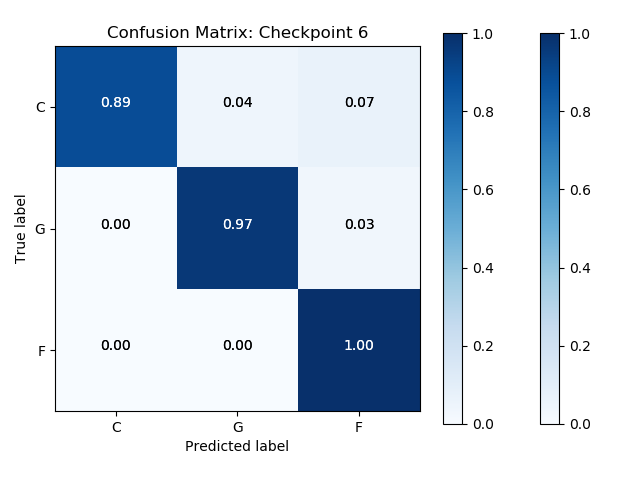
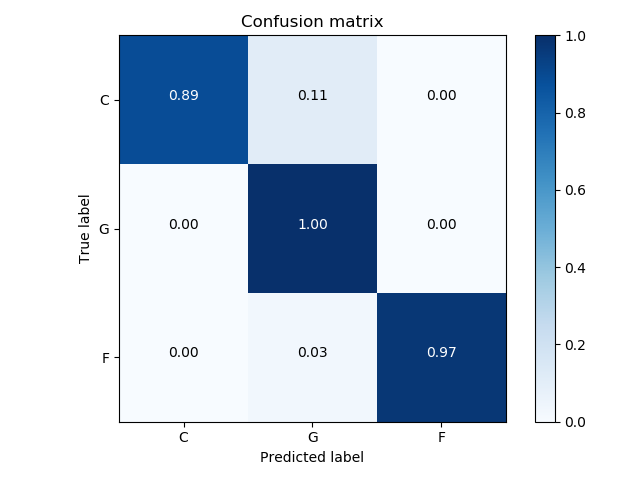
video capture file

diff --git a/src/transfer_learning_5_chords.py b/src/transfer_learning_5_chords.py
@@ -9,9 +9,10 @@ from tensorflow.keras.optimizers import SGD, Adam
 from tensorflow.keras.models import load_model
 import os
 import os.path
-from sklearn.metrics import recall_score, precision_score, roc_auc_score
+from sklearn.metrics import recall_score, precision_score, roc_auc_score, confusion_matrix
 import numpy as np
 import pandas as pd
+import matplotlib.pyplot as plt
 
 root_dir = os.path.join(os.curdir, 'CovNet_logs')  
 
@@ -51,18 +52,55 @@ def get_tboard_logdir():
 def score_model(model, test_generator, num_test):
         results_dict = model.evaluate(test_generator, steps = num_test//32, return_dict = True)
         ytrue = test_generator.classes
-        probas = best_model.predict(test_generator)
+        probas = model.predict(test_generator)
         yhat = np.argmax(probas, axis = 1)
         results_dict['recall'] = recall_score(ytrue, yhat, average = 'macro')
         results_dict['precision'] = precision_score(ytrue, yhat, average = 'macro')
         return results_dict 
         
 
+def get_confusion_matrix(model, test_generator):
+        return confusion_matrix(test_generator.classes, np.argmax(model.predict(test_generator), axis = 1))
+
+def plot_confusion_matrix(cm, classes,
+                          normalize=False,
+                          title='Confusion matrix',
+                          cmap=plt.cm.Blues):
+
+
+        import itertools
+        if normalize:
+                cm = cm.astype('float') / cm.sum(axis=1)[:, np.newaxis]
+                print("Normalized confusion matrix")
+        else:
+                print('Confusion matrix, without normalization')
+
+        print(cm)
+
+        plt.imshow(cm, interpolation='nearest', cmap=cmap)
+        plt.title(title)
+        plt.colorbar()
+        tick_marks = np.arange(len(classes))
+        plt.xticks(tick_marks, classes)
+        plt.yticks(tick_marks, classes)
+
+        fmt = '.2f' if normalize else 'd'
+        thresh = cm.max() / 2.
+        for i, j in itertools.product(range(cm.shape[0]), range(cm.shape[1])):
+                plt.text(j, i, format(cm[i, j], fmt),
+                        horizontalalignment="center",
+                        color="white" if cm[i, j] > thresh else "black")
+
+        plt.ylabel('True label')
+        plt.xlabel('Predicted label')
+        plt.tight_layout()
+        plt.savefig('images/conf_matrix_5chords_chk3') 
+
 if __name__ == '__main__':
 
-        num_train = len([os.path.join(path, name) for path, subdirs, files in os.walk('data/train/') for name in files])+1
-        num_valid = len([os.path.join(path, name) for path, subdirs, files in os.walk('data/val') for name in files])+1
-        num_test = len([os.path.join(path, name) for path, subdirs, files in os.walk('data/test') for name in files])+1
+        num_train = len([os.path.join(path, name) for path, subdirs, files in os.walk('data_5chords/train/') for name in files])+1
+        num_valid = len([os.path.join(path, name) for path, subdirs, files in os.walk('data_5chords/val') for name in files])+1
+        num_test = len([os.path.join(path, name) for path, subdirs, files in os.walk('data_5chords/test') for name in files])+1
 
         #Vars
         batch_size = 32
@@ -72,19 +110,19 @@ if __name__ == '__main__':
 
         # make flow objects
         train_generator = train_datagen.flow_from_directory(
-                'data/train/',
+                'data_5chords/train/',
                 target_size=target_size,
                 batch_size=batch_size,
                 class_mode='categorical')
 
         validation_generator = valid_datagen.flow_from_directory(
-                'data/val',
+                'data_5chords/val',
                 target_size=target_size,
                 batch_size=batch_size,
                 class_mode='categorical')
 
         test_generator = test_datagen.flow_from_directory(
-                'data/test',
+                'data_5chords/test',
                 target_size=target_size,
                 batch_size=batch_size,
                 class_mode='categorical', 
@@ -93,12 +131,12 @@ if __name__ == '__main__':
         # instantiate callbacks
         run_tboard_dir = get_tboard_logdir()
         tensorboard = TensorBoard(log_dir=run_tboard_dir, histogram_freq=2, batch_size=batch_size, write_graph=True, write_grads=True, write_images=True)
-        early_stopping = EarlyStopping(monitor='val_loss', patience=5, restore_best_weights=True)
+        early_stopping = EarlyStopping(monitor='val_loss', patience=3, restore_best_weights=True)
         
         
         #Create transfer model based on weights from 3 classes (checkpoint6)
-        ''' 
-        weights = load_model('./CovNet_logs/Checkpoint6.hdf5').get_weights()[:-2]
+        '''
+        weights = load_model('./CovNet_logs/Checkpoint7.hdf5').get_weights()[:-2]
         base_model = Xception(weights= 'imagenet',
                         include_top=False,
                         input_shape=(299,299,3))
@@ -106,14 +144,14 @@ if __name__ == '__main__':
         base_model.set_weights(weights)
         
         transfer_model = create_transfer_model(base_model, n_categories=5)
-
+        
         #First round, just change weights for the output layer
         _ = change_trainable_layers(transfer_model, 132)
         print_model_properties(transfer_model)
 
         #Compile and fit first model - just outer layer tuning
         optimizer = SGD(lr=0.2, momentum = 0.9, decay = 0.01)
-        model_cp = ModelCheckpoint(monitor='val_loss', save_best_only=True, filepath='./CovNet_logs/Checkpoint1B.hdf5')
+        model_cp = ModelCheckpoint(monitor='val_loss', save_best_only=True, filepath='./CovNet_logs/Checkpoint5c-1.hdf5')
         transfer_model.compile(optimizer=optimizer, loss=['categorical_crossentropy'], metrics=['accuracy', 'AUC'])
 
         history = transfer_model.fit(x=train_generator, 
@@ -126,15 +164,15 @@ if __name__ == '__main__':
         
 
         
-        transfer_model_2 = load_model('./CovNet_logs/Checkpoint1B.hdf5')
+        transfer_model_2 = load_model('./CovNet_logs/Checkpoint5c-2.hdf5')
 
-        _ = change_trainable_layers(transfer_model_2, 126) 
+        _ = change_trainable_layers(transfer_model_2, 106) 
 
         print_model_properties(transfer_model_2)
 
-        optimizer = SGD(lr=0.01, momentum = 0.9, decay = 0.001)
+        optimizer = Adam(lr=0.001, beta_1 = 0.9, beta_2 = 0.999)
         transfer_model_2.compile(optimizer=optimizer, loss=['categorical_crossentropy'], metrics=['accuracy', 'AUC'])
-        model_cp2 = ModelCheckpoint(monitor='val_loss', save_best_only=True, filepath='./CovNet_logs/Checkpoint2B.hdf5')
+        model_cp2 = ModelCheckpoint(monitor='val_loss', save_best_only=True, filepath='./CovNet_logs/Checkpoint5c-2.hdf5')
 
         history = transfer_model_2.fit(x=train_generator, 
                         validation_data=validation_generator,
@@ -145,8 +183,8 @@ if __name__ == '__main__':
 
 
 
-        '''
         
+        '''
         transfer_model_3 = load_model('./CovNet_logs/Checkpoint8.hdf5')
 
         model_cp3 = ModelCheckpoint(monitor='val_loss', save_best_only=True, filepath='./CovNet_logs/Checkpoint9.hdf5')
@@ -209,8 +247,12 @@ if __name__ == '__main__':
 
         '''
 
-        best_model = load_model('./CovNet_logs/Checkpoint2B.hdf5')
+        best_model = load_model('./CovNet_logs/Checkpoint5c-3.hdf5')
 
         metrics = score_model(best_model, test_generator, num_test)
 
         print(metrics)
+
+
+        cm = get_confusion_matrix(best_model, test_generator)
+        plot_confusion_matrix(cm, ['C', 'G', 'F', 'Am', 'Dm'], normalize = True)

diff --git a/src/camera.py b/src/camera.py
@@ -1,5 +1,4 @@
 import cv2
-from predictions import ChordIdentifier
 import numpy as np
 from tensorflow.keras.models import load_model
 
@@ -16,21 +15,22 @@ classes = np.array(['C', 'F', 'G'])
 cap = cv2.VideoCapture('src/quickvid.mov')
 frameRate = cap.get(5) #frame rate
 
-cap.set(cv2.CAP_PROP_FPS, 5)
-fps = int(cap.get(5))
+# cap.set(cv2.CAP_PROP_FPS, 5)
+# fps = int(cap.get(5))
 # print("fps:", fps)
 
 while(cap.isOpened()):
     ret, frame = cap.read()
-    gray = cv2.cvtColor(frame, cv2.COLOR_RGB2RGBA)
-    gray = cv2.rotate(gray, cv2.cv2.ROTATE_90_CLOCKWISE)
-
-    roi = cv2.resize(gray, (299,299))/255
+    if not ret:
+        break
+    # gray = cv2.cvtColor(frame, cv2.COLOR_RGB2RGBA)
+    gray = cv2.rotate(frame, cv2.cv2.ROTATE_90_CLOCKWISE)
+    roi = cv2.resize(gray, (299, 299))/255
     # roi = cv2.rotate(roi, cv2.cv2.ROTATE_90_CLOCKWISE)
     # print(roi[1])
     # new_img = np.delete(roi, 3 , axis = 2).reshape(-1, 299, 299, 3)
 
-    pred = classes[np.argmax(model.predict(np.delete(roi, 3 , axis = 2).reshape(-1, 299, 299, 3)), axis = 1)][0]
+    pred = classes[np.argmax(model.predict(roi.reshape(-1, 299, 299, 3)), axis = 1)][0]
     # print(pred)
     # cv2.putText(frame, pred, (50,50) ,font, 1, (40, 40, 0), 2)
 
@@ -44,130 +44,9 @@ while(cap.isOpened()):
 
     if cv2.waitKey(1) & 0xFF == ord('q'):
         break
+    
 cap.release()
-cv2.destroyAllWindows()
+print('cap released')
+# cv2.destroyAllWindows('frame')
+# print('window destroyed')
 
-
-# def get_frame(video):
-#     vid = cv2.VideoCapture(video)
-#     _, fr = vd.read()
-
-#         _, jpeg = cv2.imencode('.jpg', fr)
-#         return jpeg.tobytes()
-
-
-
-'''
-    # returns camera frames along with bounding boxes and predictions
-    def get_frame(self):
-        _, fr = self.video.read()
-        #gray_fr = cv2.cvtColor(fr, cv2.COLOR_BGR2GRAY)
-        chord = chord_c.detectMultiScale(gray_fr, 1.3, 5)
-
-        for (x, y, w, h) in faces:
-            fc = gray_fr[y:y+h, x:x+w]#change gray_fr to color frame
-
-            roi = cv2.resize(fc, (48, 48))
-            pred = model.predict_emotion(roi[np.newaxis, :, :, np.newaxis])
-
-            cv2.putText(fr, pred, (x, y), font, 1, (255, 255, 0), 2)
-            cv2.rectangle(fr,(x,y),(x+w,y+h),(255,0,0),2)
-
-        _, jpeg = cv2.imencode('.jpg', fr)
-        return jpeg.tobytes()
-'''
-
-
-
-
-
-
-'''
-import cv2  # still used to save images out
-import os
-import numpy as np
-from decord import VideoReader
-from decord import cpu, gpu
-
-
-def extract_frames(video_path, frames_dir, overwrite=False, start=-1, end=-1, every=1):
-    """
-    Extract frames from a video using decord's VideoReader
-    :param video_path: path of the video
-    :param frames_dir: the directory to save the frames
-    :param overwrite: to overwrite frames that already exist?
-    :param start: start frame
-    :param end: end frame
-    :param every: frame spacing
-    :return: count of images saved
-    """
-
-    video_path = os.path.normpath(video_path)  # make the paths OS (Windows) compatible
-    frames_dir = os.path.normpath(frames_dir)  # make the paths OS (Windows) compatible
-
-    video_dir, video_filename = os.path.split(video_path)  # get the video path and filename from the path
-
-    assert os.path.exists(video_path)  # assert the video file exists
-
-    # load the VideoReader
-    vr = VideoReader(video_path, ctx=cpu(0))  # can set to cpu or gpu .. ctx=gpu(0)
-                     
-    if start < 0:  # if start isn't specified lets assume 0
-        start = 0
-    if end < 0:  # if end isn't specified assume the end of the video
-        end = len(vr)
-
-    frames_list = list(range(start, end, every))
-    saved_count = 0
-
-    if every > 25 and len(frames_list) < 1000:  # this is faster for every > 25 frames and can fit in memory
-        frames = vr.get_batch(frames_list).asnumpy()
-
-        for index, frame in zip(frames_list, frames):  # lets loop through the frames until the end
-            save_path = os.path.join(frames_dir, video_filename, "{:010d}.jpg".format(index))  # create the save path
-            if not os.path.exists(save_path) or overwrite:  # if it doesn't exist or we want to overwrite anyways
-                cv2.imwrite(save_path, cv2.cvtColor(frame, cv2.COLOR_RGB2BGR))  # save the extracted image
-                saved_count += 1  # increment our counter by one
-
-    else:  # this is faster for every <25 and consumes small memory
-        for index in range(start, end):  # lets loop through the frames until the end
-            frame = vr[index]  # read an image from the capture
-            
-            if index % every == 0:  # if this is a frame we want to write out based on the 'every' argument
-                save_path = os.path.join(frames_dir, video_filename, "{:010d}.jpg".format(index))  # create the save path
-                if not os.path.exists(save_path) or overwrite:  # if it doesn't exist or we want to overwrite anyways
-                    cv2.imwrite(save_path, cv2.cvtColor(frame.asnumpy(), cv2.COLOR_RGB2BGR))  # save the extracted image
-                    saved_count += 1  # increment our counter by one
-
-    return saved_count  # and return the count of the images we saved
-
-
-def video_to_frames(video_path, frames_dir, overwrite=False, every=1):
-    """
-    Extracts the frames from a video
-    :param video_path: path to the video
-    :param frames_dir: directory to save the frames
-    :param overwrite: overwrite frames if they exist?
-    :param every: extract every this many frames
-    :return: path to the directory where the frames were saved, or None if fails
-    """
-
-    video_path = os.path.normpath(video_path)  # make the paths OS (Windows) compatible
-    frames_dir = os.path.normpath(frames_dir)  # make the paths OS (Windows) compatible
-
-    video_dir, video_filename = os.path.split(video_path)  # get the video path and filename from the path
-
-    # make directory to save frames, its a sub dir in the frames_dir with the video name
-    os.makedirs(os.path.join(frames_dir, video_filename), exist_ok=True)
-    
-    print("Extracting frames from {}".format(video_filename))
-    
-    extract_frames(video_path, frames_dir, every=every)  # let's now extract the frames
-
-    return os.path.join(frames_dir, video_filename)  # when done return the directory containing the frames
-
-
-if __name__ == '__main__':
-    # test it
-    video_to_frames(video_path='test.mp4', frames_dir='test_frames', overwrite=False, every=5)
-'''

diff --git a/README.md b/README.md
@@ -4,10 +4,8 @@
 #### Goal: 
 The goal of this project is to create a piano chord classifier based on images.  
 
-Stretch project: if I am successful with goal above, I'd like to be able to identify chords in real time.  It would be interesting if each chord could trigger a different sound (such as the sound of the chord) or a lighting change.
-
 #### Background: 
-Deep learning has been used to classify chords based on audio input, but there aren't many chord identifiers based on images. This could have many use cases such as helping hearing impaired musicians, supporting virtual learning, video transcription, and cuing theatrical changes for large productions. There is also an opportunity to build an ensemble model, combining the audio and image classifiers. 
+Deep learning has been used to classify chords based on audio input, but there aren't many chord identifiers based on images. A chord image classifier could have many use cases such as helping hearing impaired musicians, supporting virtual learning, video transcription, and cuing theatrical changes for large productions. There is also an opportunity to build an ensemble model, combining the audio and image classifiers. 
 
 #### Collecting the Data
 With a "little help from my friends", I generated and self-labeled images of three chords: C, F, and G.  The images came from 11 ppl and 8 unique pianos, included both left and right hands and multiple fingerings.  There were approximately XX images generated per person. 
@@ -18,20 +16,9 @@ With a "little help from my friends", I generated and self-labeled images of thr
 
 I randomly split the raw images into training, validation, and test sets, and then performed augmentation on the training set using the kera's ImageDataGenerator.  This created 20 additional images per raw training image, by randomly performing transofmrations such as rotation, shearing, zoom, shifts.
 
-```
-datagen = ImageDataGenerator(
-        rotation_range=20,
-        width_shift_range=0.1,
-        height_shift_range=0.1,
-        rescale=1./255,
-        shear_range=0.1,
-        zoom_range=0.1,
-        horizontal_flip=False,
-        fill_mode='constant')
-```
-
-
 ### Fitting a Model
+The model was built with the Xception architecture and was initialized to the ImageNet weights.   
+
 [Here talk about process!! and fix the graph below
 
 maybe a flow chart of what improvements made over time ]
